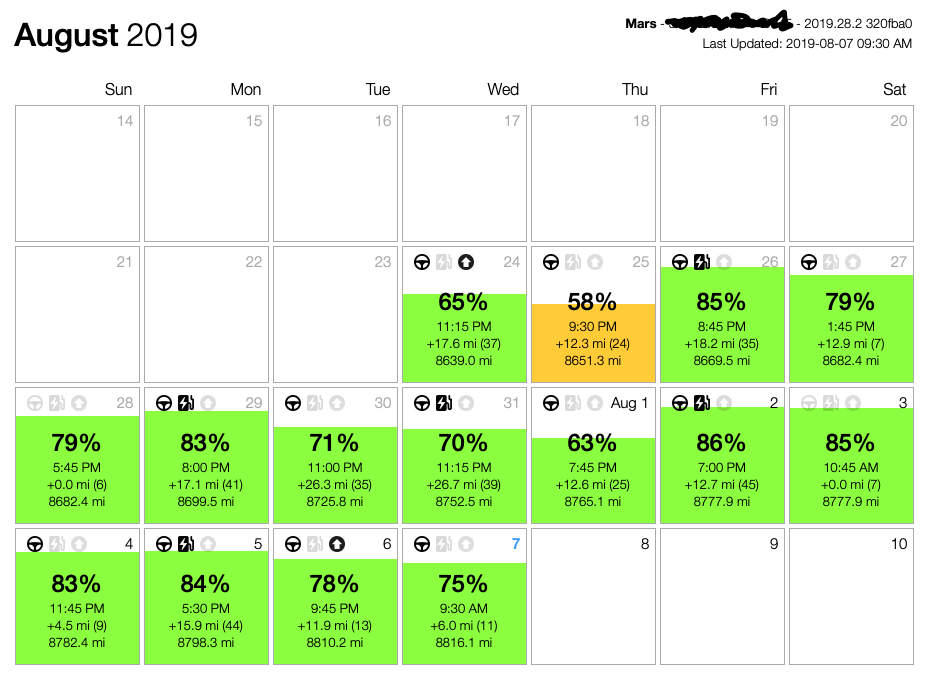
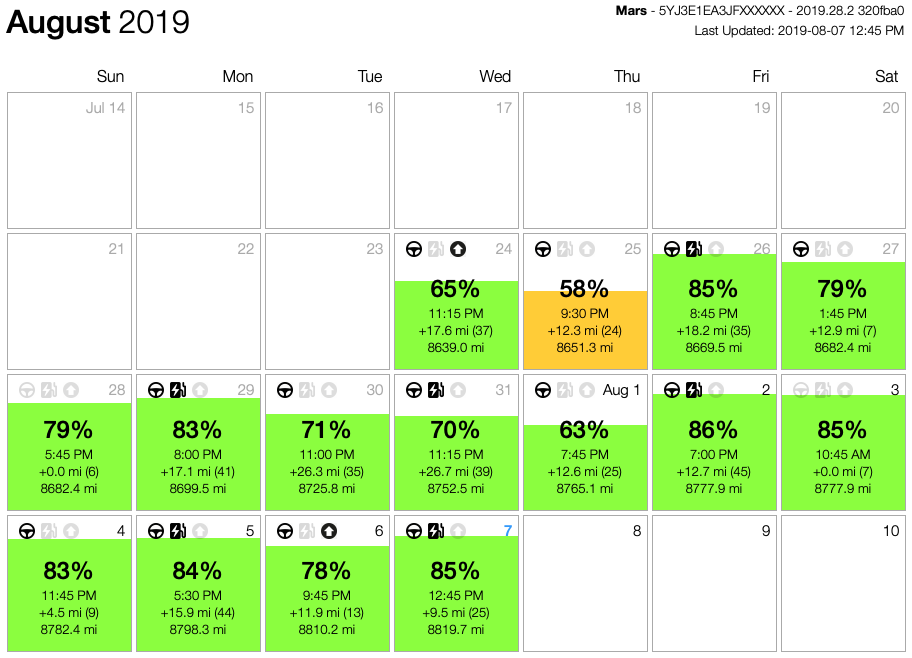
Inadvertently changed to start on Monday

diff --git a/summary.py b/summary.py
@@ -12,6 +12,8 @@ import tesla
 boolColor = 135
 numberColor = 82
 stringColor = 228
+otherColor = 51
+noneColor = 199
 
 def showVariable(variable, value, color=numberColor):
     print('\033[38;5;214m{}\033[m = \033[38;5;{}m{}\033[m'.format(variable, color, value))
@@ -110,30 +112,30 @@ if __name__ == '__main__':
     t = data['charge_state']['timestamp'] / 1000
     showVariable('timestamp', prettyAgeString(t))
     fullRange = data['charge_state']['battery_range'] / data['charge_state']['battery_level'] * 100.0
-    showVariable('projected_full_battery_range', '{:.1f} mi'.format(fullRange), 51)   # my projected range at 100% charge
-    showKeyValue(data['charge_state'], 'ideal_battery_range', ' mi')                  # ideal range without degradation
-    showKeyValue(data['charge_state'], 'est_battery_range', ' mi')                    # range estimated from recent driving
-    showKeyValue(data['charge_state'], 'battery_range', ' mi')                        # current battery range
-    showKeyValue(data['charge_state'], 'battery_level', '%')                          # current battery state of charge
-    showKeyValue(data['climate_state'], 'is_climate_on')                              # climate control
-    tc = data['climate_state']['inside_temp']                                         # interior temperature
-    if tc is None:
-        showVariable('inside_temp', 'None', boolColor)                                # show temperature in C & F
-    else:
-        showVariable('inside_temp', '{:.1f}°C / {:.1f}°F'.format(tc, c2f(tc)))        # show temperature in C & F
-    tc = data['climate_state']['outside_temp']                                        # exterior temperature
-    if tc is None:
-        showVariable('outside_temp', 'None', boolColor)                               # show temperature in C & F
-    else:
-        showVariable('outside_temp', '{:.1f}°C / {:.1f}°F'.format(tc, c2f(tc)))       # show temperature in C & F
-    showKeyValue(data['charge_state'], 'charging_state')                              # charge state (disconnected, charging, etc.)
-    if data['charge_state']['charging_state'] == "Charging":
-        showKeyValue(data['charge_state'], 'charger_power', ' kW')                    # charge power
-        showKeyValue(data['charge_state'], 'charger_voltage', ' V')                   # charge voltage
-        showKeyValue(data['charge_state'], 'charger_actual_current', ' A')            # charge current
-        showKeyValue(data['charge_state'], 'charge_rate', ' mi/hr')                   # charge rate at mi/hr
-    showKeyValue(data['vehicle_state'], 'is_user_present')                            # the presence of a user
-    showKeyValue(data['vehicle_state'], 'sentry_mode')                                # activation of sentry mode
-    showKeyValue(data['vehicle_state'], 'locked')                                     # vehicle lock
-    showKeyValue(data['vehicle_state'], 'odometer', ' mi')                            # odometer
-    showKeyValue(data['vehicle_state'], 'car_version')                                # software version
+    showVariable('projected_full_battery_range', '{:.1f} mi'.format(fullRange), otherColor)     # my projected range at 100% charge
+    showKeyValue(data['charge_state'], 'ideal_battery_range', ' mi')                            # ideal range without degradation
+    showKeyValue(data['charge_state'], 'est_battery_range', ' mi')                              # range estimated from recent driving
+    showKeyValue(data['charge_state'], 'battery_range', ' mi')                                  # current battery range
+    showKeyValue(data['charge_state'], 'battery_level', '%')                                    # current battery state of charge
+    showKeyValue(data['climate_state'], 'is_climate_on')                                        # climate control
+    tc = data['climate_state']['inside_temp']                                                   # interior temperature
+    if tc is None:                                                                              #
+        showVariable('inside_temp', 'None', noneColor)                                          # no temperature reading reported
+    else:                                                                                       #
+        showVariable('inside_temp', '{:.1f}°C / {:.1f}°F'.format(tc, c2f(tc)))                  # show temperature in C & F
+    tc = data['climate_state']['outside_temp']                                                  # exterior temperature
+    if tc is None:                                                                              #
+        showVariable('outside_temp', 'None', noneColor)                                         # no temperature reading reported
+    else:                                                                                       #
+        showVariable('outside_temp', '{:.1f}°C / {:.1f}°F'.format(tc, c2f(tc)))                 # show temperature in C & F
+    showKeyValue(data['charge_state'], 'charging_state')                                        # charge state (disconnected, charging, etc.)
+    if data['charge_state']['charging_state'] == "Charging":                                    #
+        showKeyValue(data['charge_state'], 'charger_power', ' kW')                              # charge power
+        showKeyValue(data['charge_state'], 'charger_voltage', ' V')                             # charge voltage
+        showKeyValue(data['charge_state'], 'charger_actual_current', ' A')                      # charge current
+        showKeyValue(data['charge_state'], 'charge_rate', ' mi/hr')                             # charge rate at mi/hr
+    showKeyValue(data['vehicle_state'], 'is_user_present')                                      # the presence of a user
+    showKeyValue(data['vehicle_state'], 'sentry_mode')                                          # activation of sentry mode
+    showKeyValue(data['vehicle_state'], 'locked')                                               # vehicle lock
+    showKeyValue(data['vehicle_state'], 'odometer', ' mi')                                      # odometer
+    showKeyValue(data['vehicle_state'], 'car_version')                                          # software version

diff --git a/tesla/__init__.py b/tesla/__init__.py
@@ -52,7 +52,7 @@ def getCalendarArray():
 
     # Find the 4th Sunday before present day
     t0 = t[-1]
-    while time.localtime(t0).tm_wday != 0:
+    while time.localtime(t0).tm_wday != 6:
         t0 -= 86400
     t0 -= 21 * 86400
 
